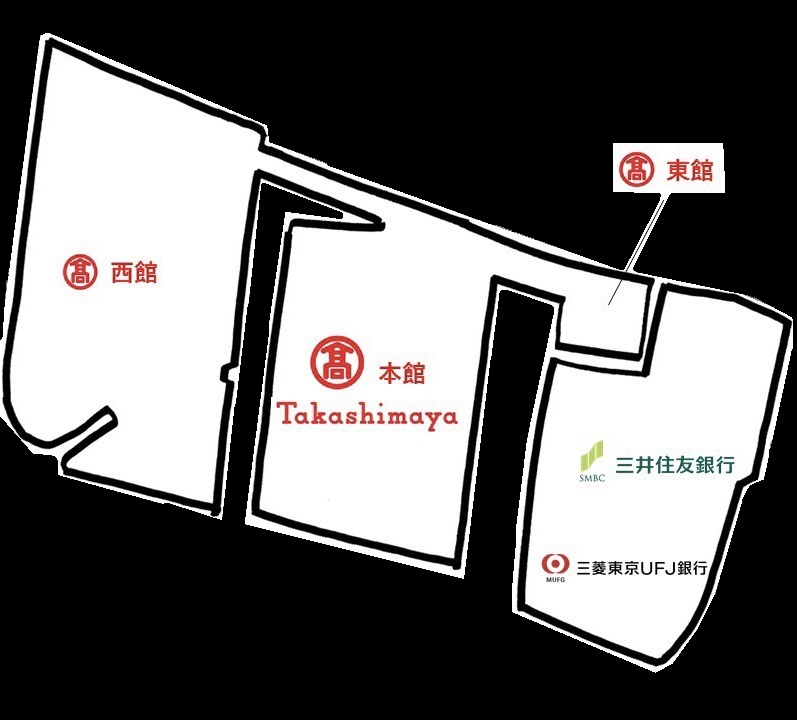
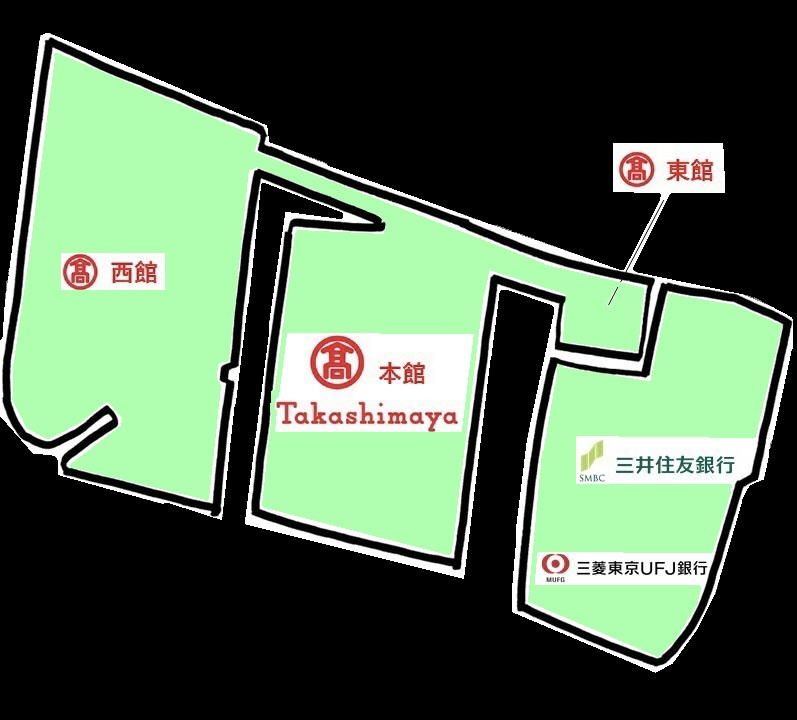
[edited]map colours

Changed region(s): [[0.0, 0.0611, 0.9937, 0.9167]]

diff --git a/public/css/style.css b/public/css/style.css
@@ -283,7 +283,7 @@
         border: solid 8px #98FB98;
         border-radius: 3px;
         background: none;
-        color: 	#98FB98;
+        color: #98FB98;
         text-decoration:none;
     }
     
@@ -293,7 +293,70 @@
         text-decoration:none;
     }
       
-  
+    /* ストアにつなげるボタン----B----*/
+    a.storebuttonsB{
+        display: inline-block;
+        padding: 0.1em 1em;
+        text-decoration: none;
+        color: gray;
+        border: solid 5px gray;
+        border-radius: 3px;
+        transition: .4s;
+        text-align: center;
+        font-size: 45px;
+        font-family: "Lobster", serif;
+        margin-top: 50px;
+        margin-bottom: 60px;
+        background-color: none;
+    }
+    
+    
+    a.storebuttonsB:hover {
+        border: solid 8px #FFFACD;
+        border-radius: 3px;
+        background: none;
+        color: #FFFACD;
+        text-decoration:none;
+    }
+    
+    a.storebuttonsB:link,
+    a.storebuttonsB:visited,
+    a.storebuttonsB:active{
+        text-decoration:none;
+    }
+    
+    
+    /* ストアにつなげるボタン----C----*/
+    a.storebuttonsC{
+        display: inline-block;
+        padding: 0.1em 1em;
+        text-decoration: none;
+        color: gray;
+        border: solid 5px gray;
+        border-radius: 3px;
+        transition: .4s;
+        text-align: center;
+        font-size: 45px;
+        font-family: "Lobster", serif;
+        margin-top: 50px;
+        margin-bottom: 60px;
+        background-color: none;
+    }
+    
+    
+    a.storebuttonsC:hover {
+        border: solid 8px #87CEFA;
+        border-radius: 3px;
+        background: none;
+        color: #87CEFA;
+        text-decoration:none;
+    }
+    
+    a.storebuttonsC:link,
+    a.storebuttonsC:visited,
+    a.storebuttonsC:active{
+        text-decoration:none;
+    }
   
 
     /* ストアにつなげるボタン----D----*/
